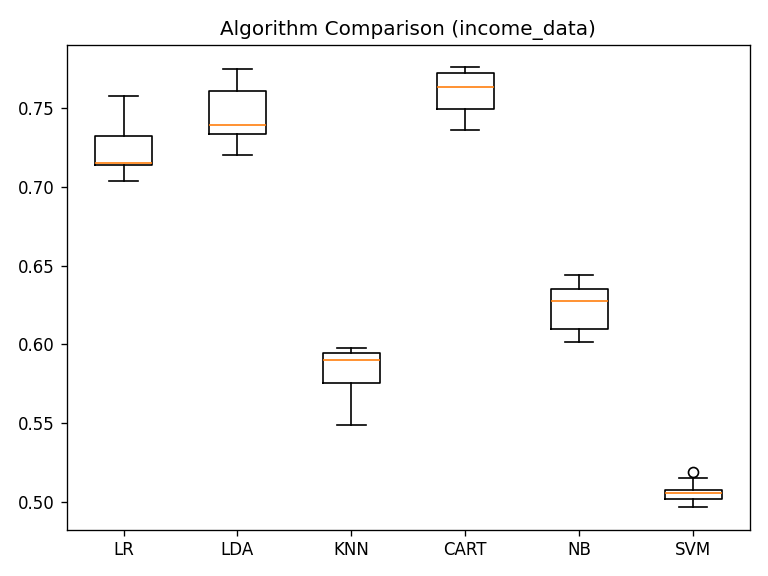
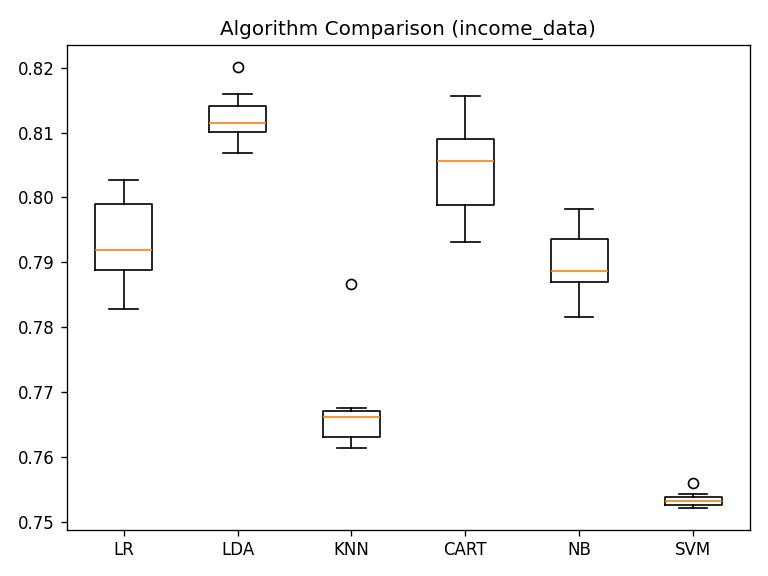
task 2 fix

diff --git a/LR_2/src/LR_2_task_4.py b/LR_2/src/LR_2_task_4.py
@@ -7,7 +7,7 @@ import matplotlib
 import matplotlib.pyplot as plt
 import numpy as np
 
-warnings.filterwarnings("ignore")  # придушуємо ConvergenceWarning для LR
+warnings.filterwarnings("ignore")
 from sklearn import preprocessing
 from sklearn.discriminant_analysis import LinearDiscriminantAnalysis
 from sklearn.linear_model import LogisticRegression
@@ -17,6 +17,7 @@ from sklearn.metrics import (
 from sklearn.model_selection import (
     StratifiedKFold, cross_val_score, train_test_split,
 )
+from sklearn.multiclass import OneVsRestClassifier
 from sklearn.naive_bayes import GaussianNB
 from sklearn.neighbors import KNeighborsClassifier
 from sklearn.svm import SVC
@@ -29,13 +30,12 @@ os.makedirs("outputs", exist_ok=True)
 
 input_file = "income_data.txt"
 
-# на 6 алгоритмах × 10-fold CV повний набір рахується дуже довго,
-# тому скорочуємо до 5000 точок на клас (10000 total) — цього
-# достатньо для порівняння моделей
+# той самий датасет, що й у task_1 (методичка: «по аналогії із task 2.3»
+# для income_data — тобто повний набір з 25000 точок на клас)
 X = []
 count_class1 = 0
 count_class2 = 0
-max_datapoints = 5000
+max_datapoints = 25000
 
 with open(input_file, "r") as f:
     for line in f.readlines():
@@ -69,12 +69,18 @@ X_train, X_test, y_train, y_test = train_test_split(
     X, y, test_size=0.2, random_state=1)
 
 models = []
-models.append(("LR", LogisticRegression(max_iter=1000)))
+# методичка с.15: LogisticRegression(solver='liblinear', multi_class='ovr').
+# multi_class у sklearn ≥1.7 видалено — використовуємо OneVsRestClassifier
+# як еквівалент OvR (тут income-датасет бінарний, тому ефективно це
+# просто звичайна логістична регресія, але обгортка лишається задля
+# дослівної відповідності методичці).
+models.append(("LR", OneVsRestClassifier(LogisticRegression(solver="liblinear"))))
 models.append(("LDA", LinearDiscriminantAnalysis()))
 models.append(("KNN", KNeighborsClassifier()))
 models.append(("CART", DecisionTreeClassifier()))
 models.append(("NB", GaussianNB()))
-models.append(("SVM", SVC(gamma="auto")))
+# на ~50k точок без масштабування SVC дуже повільний — обмежуємо max_iter
+models.append(("SVM", SVC(gamma="auto", max_iter=20000)))
 
 results = []
 names_list = []

diff --git a/LR_2/src/LR_2_task_2_1.py b/LR_2/src/LR_2_task_2_1.py
@@ -1,13 +1,16 @@
 import io
 import sys
+import warnings
 
 import numpy as np
 from sklearn import preprocessing
 from sklearn.svm import SVC
-from sklearn.model_selection import train_test_split, cross_val_score
+from sklearn.model_selection import train_test_split
 from sklearn.metrics import (
     accuracy_score, precision_score, recall_score, f1_score,
 )
+
+warnings.filterwarnings("ignore")
 
 if sys.stdout.encoding.lower() != "utf-8":
     sys.stdout = io.TextIOWrapper(sys.stdout.buffer, encoding="utf-8")
@@ -17,9 +20,9 @@ input_file = "income_data.txt"
 X = []
 count_class1 = 0
 count_class2 = 0
-# SVM з poly degree=8 на 25000 точок не сходиться за розумний час,
-# тому скорочуємо до 5000 на клас
-max_datapoints = 5000
+# той самий датасет, що й у task_1 (методичка с.5: «Використовуючи
+# набір даних та код з попереднього завдання...»)
+max_datapoints = 25000
 
 with open(input_file, "r") as f:
     for line in f.readlines():
@@ -49,8 +52,9 @@ for i, item in enumerate(X[0]):
 X = X_encoded[:, :-1].astype(int)
 y = X_encoded[:, -1].astype(int)
 
-# SVM з поліноміальним ядром, degree=8
-classifier = SVC(kernel="poly", degree=8, random_state=0)
+# SVM з поліноміальним ядром, degree=8 (методичка с.5)
+# max_iter=20000 — щоб poly d=8 на ~50k точок гарантовано завершився
+classifier = SVC(kernel="poly", degree=8, random_state=0, max_iter=20000)
 
 X_train, X_test, y_train, y_test = train_test_split(
     X, y, test_size=0.2, random_state=5)

diff --git a/LR_2/src/LR_2_task_3.py b/LR_2/src/LR_2_task_3.py
@@ -1,6 +1,7 @@
 import io
 import os
 import sys
+import warnings
 
 import matplotlib
 import matplotlib.pyplot as plt
@@ -16,10 +17,13 @@ from sklearn.metrics import (
 from sklearn.model_selection import (
     StratifiedKFold, cross_val_score, train_test_split,
 )
+from sklearn.multiclass import OneVsRestClassifier
 from sklearn.naive_bayes import GaussianNB
 from sklearn.neighbors import KNeighborsClassifier
 from sklearn.svm import SVC
 from sklearn.tree import DecisionTreeClassifier
+
+warnings.filterwarnings("ignore")  # multi_class='ovr' deprecated в sklearn ≥1.5
 
 if sys.stdout.encoding.lower() != "utf-8":
     sys.stdout = io.TextIOWrapper(sys.stdout.buffer, encoding="utf-8")
@@ -95,7 +99,11 @@ X_train, X_validation, Y_train, Y_validation = train_test_split(
 
 # --- крок 4. 6 моделей + stratified 10-fold CV ---
 models = []
-models.append(("LR", LogisticRegression(max_iter=200)))
+# методичка с.15: LogisticRegression(solver='liblinear', multi_class='ovr').
+# У sklearn ≥1.7 параметр multi_class видалено, а 'liblinear' сам не вміє
+# мультиклас. Тому загортаємо в OneVsRestClassifier — це і є OvR-стратегія,
+# яку методичка явно просить через `multi_class='ovr'`.
+models.append(("LR", OneVsRestClassifier(LogisticRegression(solver="liblinear"))))
 models.append(("LDA", LinearDiscriminantAnalysis()))
 models.append(("KNN", KNeighborsClassifier()))
 models.append(("CART", DecisionTreeClassifier()))

diff --git a/LR_2/src/LR_2_task_2_3.py b/LR_2/src/LR_2_task_2_3.py
@@ -1,5 +1,6 @@
 import io
 import sys
+import warnings
 
 import numpy as np
 from sklearn import preprocessing
@@ -9,6 +10,8 @@ from sklearn.metrics import (
     accuracy_score, precision_score, recall_score, f1_score,
 )
 
+warnings.filterwarnings("ignore")
+
 if sys.stdout.encoding.lower() != "utf-8":
     sys.stdout = io.TextIOWrapper(sys.stdout.buffer, encoding="utf-8")
 
@@ -17,8 +20,8 @@ input_file = "income_data.txt"
 X = []
 count_class1 = 0
 count_class2 = 0
-# для одноманітності з poly (2_2_1) та пришвидшення — 5000 на клас
-max_datapoints = 5000
+# той самий датасет, що й у task_1 (методичка с.6)
+max_datapoints = 25000
 
 with open(input_file, "r") as f:
     for line in f.readlines():
@@ -48,8 +51,9 @@ for i, item in enumerate(X[0]):
 X = X_encoded[:, :-1].astype(int)
 y = X_encoded[:, -1].astype(int)
 
-# SVM з сигмоїдальним ядром
-classifier = SVC(kernel="sigmoid", random_state=0)
+# SVM з сигмоїдальним ядром (методичка с.6)
+# max_iter обмежує час навчання на ~50k точок
+classifier = SVC(kernel="sigmoid", random_state=0, max_iter=20000)
 
 X_train, X_test, y_train, y_test = train_test_split(
     X, y, test_size=0.2, random_state=5)

diff --git a/LR_2/src/LR_2_task_2_2.py b/LR_2/src/LR_2_task_2_2.py
@@ -1,5 +1,6 @@
 import io
 import sys
+import warnings
 
 import numpy as np
 from sklearn import preprocessing
@@ -9,6 +10,8 @@ from sklearn.metrics import (
     accuracy_score, precision_score, recall_score, f1_score,
 )
 
+warnings.filterwarnings("ignore")
+
 if sys.stdout.encoding.lower() != "utf-8":
     sys.stdout = io.TextIOWrapper(sys.stdout.buffer, encoding="utf-8")
 
@@ -17,8 +20,8 @@ input_file = "income_data.txt"
 X = []
 count_class1 = 0
 count_class2 = 0
-# для одноманітності з poly (2_2_1) та пришвидшення — 5000 на клас
-max_datapoints = 5000
+# той самий датасет, що й у task_1 (методичка с.5)
+max_datapoints = 25000
 
 with open(input_file, "r") as f:
     for line in f.readlines():
@@ -48,8 +51,9 @@ for i, item in enumerate(X[0]):
 X = X_encoded[:, :-1].astype(int)
 y = X_encoded[:, -1].astype(int)
 
-# SVM з гаусовим ядром (rbf)
-classifier = SVC(kernel="rbf", random_state=0)
+# SVM з гаусовим ядром (методичка с.6)
+# max_iter обмежує час навчання на ~50k точок
+classifier = SVC(kernel="rbf", random_state=0, max_iter=20000)
 
 X_train, X_test, y_train, y_test = train_test_split(
     X, y, test_size=0.2, random_state=5)

diff --git a/LR_2/src/LR_2_task_1.py b/LR_2/src/LR_2_task_1.py
@@ -1,5 +1,6 @@
 import io
 import sys
+import warnings
 
 import numpy as np
 from sklearn import preprocessing
@@ -9,6 +10,8 @@ from sklearn.model_selection import train_test_split, cross_val_score
 from sklearn.metrics import (
     accuracy_score, precision_score, recall_score, f1_score,
 )
+
+warnings.filterwarnings("ignore")  # ConvergenceWarning від LinearSVC
 
 if sys.stdout.encoding.lower() != "utf-8":
     sys.stdout = io.TextIOWrapper(sys.stdout.buffer, encoding="utf-8")
@@ -49,7 +52,7 @@ for i, item in enumerate(X[0]):
 X = X_encoded[:, :-1].astype(int)
 y = X_encoded[:, -1].astype(int)
 
-classifier = OneVsOneClassifier(LinearSVC(random_state=0, max_iter=5000))
+classifier = OneVsOneClassifier(LinearSVC(random_state=0))
 
 X_train, X_test, y_train, y_test = train_test_split(
     X, y, test_size=0.2, random_state=5)
